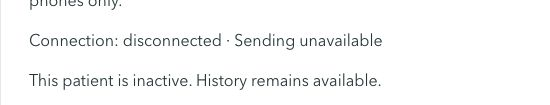
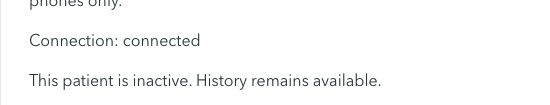
S5.1: refresh proof after service refactor

Changed region(s): [[0.2164, 0.3143, 0.7109, 0.4857]]

diff --git a/.shipit/proof/S5.1/index.md b/.shipit/proof/S5.1/index.md
@@ -1,6 +1,6 @@
 # S5.1 visual proof
 
-Application commit: `595b2c3`. All records and messages are synthetic. The application ran
+Application commit: `2556342`. All records and messages are synthetic. The application ran
 against a disposable PostgreSQL database and a loopback-only fake OpenWA HTTP provider; no
 WhatsApp account or real phone was used. The conversation and inactive captures are clipped to
 exclude the test number. These captures do not establish live WhatsApp compatibility.
